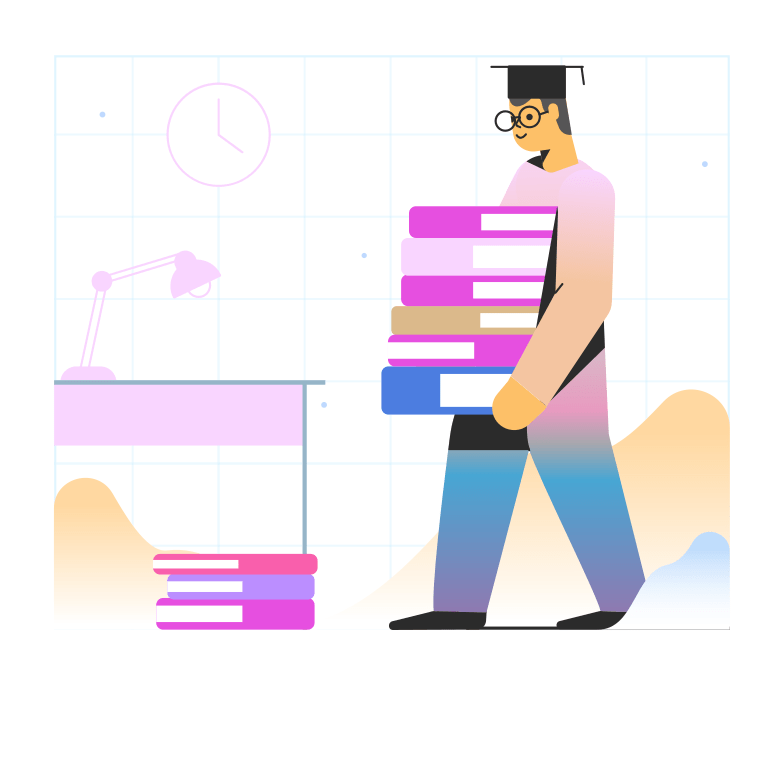
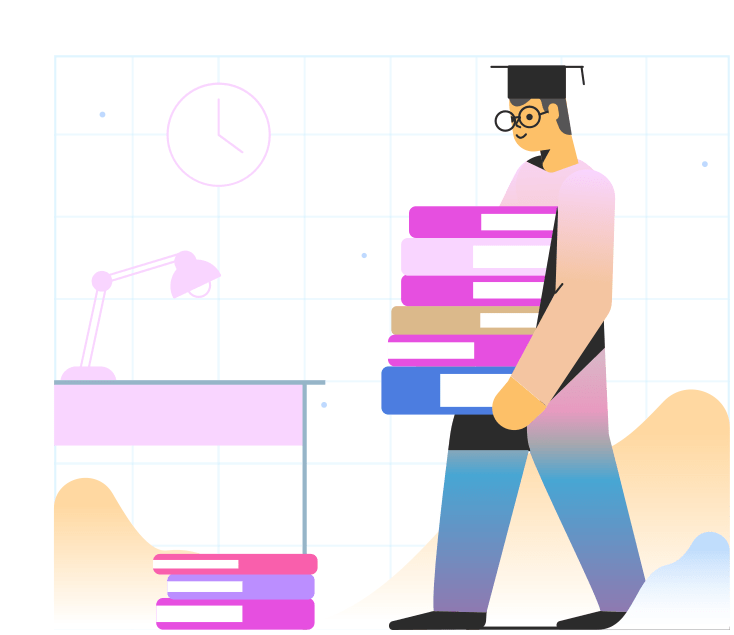
landing page v1

diff --git a/index.html b/index.html
@@ -21,10 +21,17 @@
       })(window,document,'https://static.hotjar.com/c/hotjar-','.js?sv=');
     </script>
 
-    <title>Hello, world!</title>
+    <title>High Schoolers in Tech</title>
   </head>
   <body>
-    <img src="assets/working.png" alt="landing img" height="400px">
+    <div class="landing-container">
+      <img src="assets/working.png" alt="landing img">
+      <h1>High Schoolers in Tech</h1>
+      <h3>A resource for high schoolers to find opportunities in tech. Here's a long list 
+        of high school internships, programs, competitions, conferences, and more surrounding the 
+        tech space, all compiled here — apply away! </h3>
+      <h3 class="update">Last updated on 05/08/20</h3>
+    </div>
     <nav>
         <div class="nav nav-tabs" id="nav-tab" role="tablist">
           <a class="nav-item nav-link active" id="nav-home-tab" data-toggle="tab" href="#nav-home" role="tab" aria-controls="nav-home" aria-selected="true">All Opportunities</a>

diff --git a/styles.css b/styles.css
@@ -1,5 +1,5 @@
 body {
-    padding: 10% 10%;
+    padding: 7% 10%;
     font-size: 12px; 
     line-height: 2;
 }
@@ -24,7 +24,38 @@ table th {
     width: 7% !important;
 }
 
+img {
+    height: 400px; 
+    float: right; 
+    padding-top: 20px;
+}
 
+nav { 
+    clear: right;
+    padding-top: 10%;
+}
+
+.landing-container {
+    position: relative;
+}
+
+h1 {
+    font-size: 80px;
+    position: absolute;
+}
+
+h3 {
+    padding-top: 150px; 
+    font-weight: 400;
+    font-size: 18px;
+    color: gray;
+    line-height: 1.5;
+    width: 50%;
+}
+
+.update {
+    padding-top: 50px; 
+}
 
 .tab-pane {
     padding-top: 3%;
